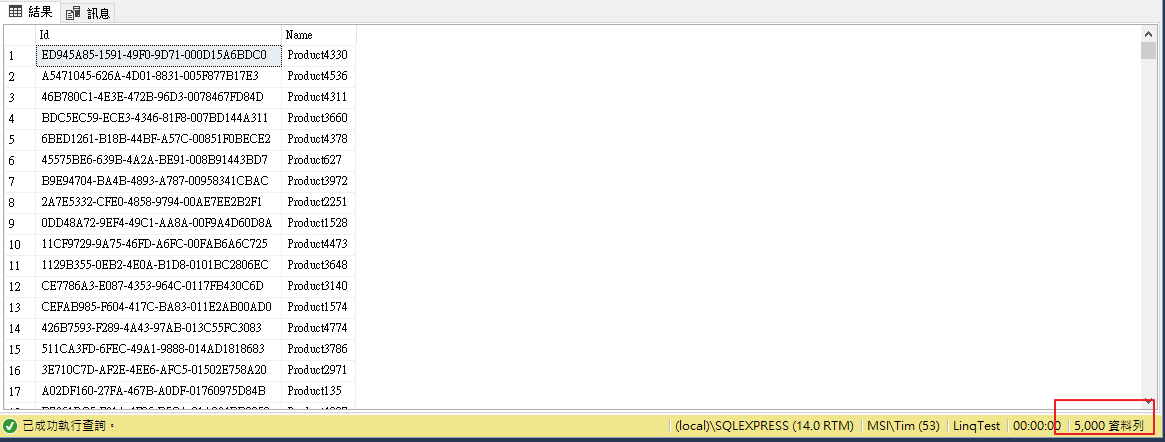
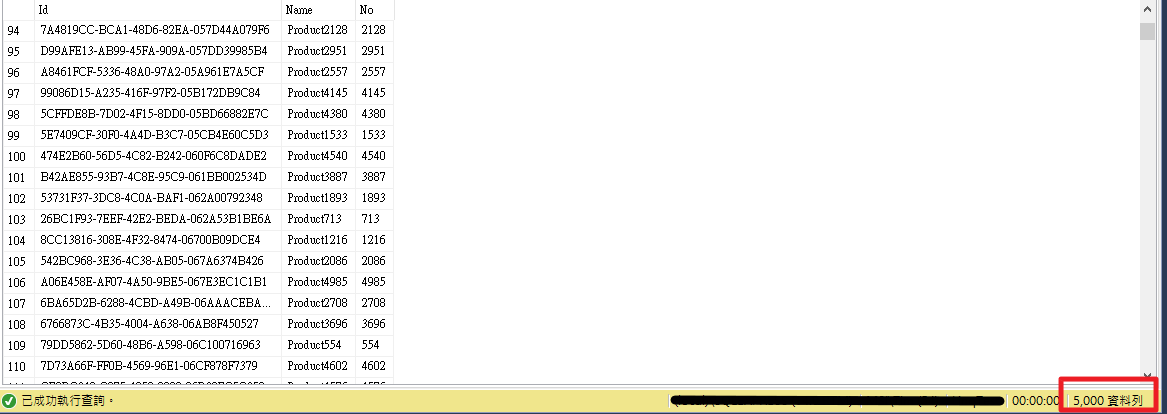
Site updated: 2020-12-23 21:10:07

Changed region(s): [[0.0, 0.0, 1.0, 1.0]]

diff --git a/2020/12/17/net-linq-any-count/index.html b/2020/12/17/net-linq-any-count/index.html
@@ -34,8 +34,9 @@
 <meta property="og:image" content="https://timchen0409.github.io/img/20201217/0.png">
 <meta property="og:image" content="https://timchen0409.github.io/img/20201217/1.png">
 <meta property="og:image" content="https://timchen0409.github.io/img/20201217/2.png">
+<meta property="og:image" content="https://timchen0409.github.io/img/20201217/3.png">
 <meta property="article:published_time" content="2020-12-17T13:30:40.000Z">
-<meta property="article:modified_time" content="2020-12-17T12:43:05.177Z">
+<meta property="article:modified_time" content="2020-12-23T13:09:45.159Z">
 <meta property="article:author" content="Tim Chen">
 <meta property="article:tag" content="Backend">
 <meta property="article:tag" content="C#">
@@ -221,7 +222,7 @@
       <div class="sidebar-panel-container">
         <!--noindex-->
         <section class="post-toc-wrap sidebar-panel">
-            <div class="post-toc animated"><ol class="nav"><li class="nav-item nav-level-2"><a class="nav-link" href="#%E5%89%8D%E8%A8%80"><span class="nav-number">1.</span> <span class="nav-text">前言</span></a></li><li class="nav-item nav-level-2"><a class="nav-link" href="#List%E6%AF%94%E8%BC%83"><span class="nav-number">2.</span> <span class="nav-text">List比較</span></a></li><li class="nav-item nav-level-2"><a class="nav-link" href="#Linq-to-Entities%E6%AF%94%E8%BC%83"><span class="nav-number">3.</span> <span class="nav-text">Linq-to-Entities比較</span></a></li><li class="nav-item nav-level-2"><a class="nav-link" href="#%E7%B5%90%E8%AA%9E"><span class="nav-number">4.</span> <span class="nav-text">結語</span></a><ol class="nav-child"><li class="nav-item nav-level-4"><a class="nav-link" href="#%E5%8F%83%E8%80%83%E8%B3%87%E6%96%99"><span class="nav-number">4.0.1.</span> <span class="nav-text">參考資料</span></a></li></ol></li></ol></li></ol></div>
+            <div class="post-toc animated"><ol class="nav"><li class="nav-item nav-level-2"><a class="nav-link" href="#%E5%89%8D%E8%A8%80"><span class="nav-number">1.</span> <span class="nav-text">前言</span></a></li><li class="nav-item nav-level-2"><a class="nav-link" href="#List%E6%AF%94%E8%BC%83"><span class="nav-number">2.</span> <span class="nav-text">List比較</span></a></li><li class="nav-item nav-level-2"><a class="nav-link" href="#Linq-to-Entities%E6%AF%94%E8%BC%83"><span class="nav-number">3.</span> <span class="nav-text">Linq-to-Entities比較</span></a></li><li class="nav-item nav-level-2"><a class="nav-link" href="#Linq-to-Entities%E6%AF%94%E8%BC%83-%E9%99%84%E5%8A%A0%E6%A2%9D%E4%BB%B6%E6%9F%A5%E8%A9%A2"><span class="nav-number">4.</span> <span class="nav-text">Linq-to-Entities比較(附加條件查詢)</span></a></li><li class="nav-item nav-level-2"><a class="nav-link" href="#%E7%B5%90%E8%AA%9E"><span class="nav-number">5.</span> <span class="nav-text">結語</span></a><ol class="nav-child"><li class="nav-item nav-level-4"><a class="nav-link" href="#%E5%8F%83%E8%80%83%E8%B3%87%E6%96%99"><span class="nav-number">5.0.1.</span> <span class="nav-text">參考資料</span></a></li></ol></li></ol></li></ol></div>
         </section>
         <!--/noindex-->
 
@@ -360,25 +361,36 @@
 <blockquote>
 <p>Using Any() instead of Count() != 0 usually conveys the intent of the code better, and in some circumstances, can perform better.</p>
 </blockquote>
-<p>因為本人過往在撰寫程式時，總是習慣使用Count()來判斷集合中是否有物件，所以就來測試看看</p>
+<p>因為本人過往在撰寫程式時，習慣使用Count()來判斷集合中是否有物件，所以就來測試看看</p>
 <a id="more"></a>
 
 <h2 id="List比較"><a href="#List比較" class="headerlink" title="List比較"></a>List比較</h2><p>我們先建立一個Product類別，然後使用For迴圈建立一個Product的List集合，之後使用StopWatch去測量已耗用時間<br>除了上述兩種情況，這邊額外新增測試 List 的 Count屬性<br>我們新增一個主控台應用程式，範例程式碼如下：</p>
-<figure class="highlight csharp"><table><tr><td class="gutter"><pre><span class="line">1</span><br><span class="line">2</span><br><span class="line">3</span><br><span class="line">4</span><br><span class="line">5</span><br><span class="line">6</span><br><span class="line">7</span><br><span class="line">8</span><br><span class="line">9</span><br><span class="line">10</span><br><span class="line">11</span><br><span class="line">12</span><br><span class="line">13</span><br><span class="line">14</span><br><span class="line">15</span><br><span class="line">16</span><br><span class="line">17</span><br><span class="line">18</span><br><span class="line">19</span><br><span class="line">20</span><br><span class="line">21</span><br><span class="line">22</span><br><span class="line">23</span><br><span class="line">24</span><br><span class="line">25</span><br><span class="line">26</span><br><span class="line">27</span><br><span class="line">28</span><br><span class="line">29</span><br><span class="line">30</span><br><span class="line">31</span><br><span class="line">32</span><br><span class="line">33</span><br><span class="line">34</span><br><span class="line">35</span><br><span class="line">36</span><br><span class="line">37</span><br><span class="line">38</span><br><span class="line">39</span><br><span class="line">40</span><br><span class="line">41</span><br><span class="line">42</span><br><span class="line">43</span><br><span class="line">44</span><br><span class="line">45</span><br><span class="line">46</span><br><span class="line">47</span><br><span class="line">48</span><br><span class="line">49</span><br><span class="line">50</span><br><span class="line">51</span><br><span class="line">52</span><br><span class="line">53</span><br><span class="line">54</span><br><span class="line">55</span><br><span class="line">56</span><br><span class="line">57</span><br><span class="line">58</span><br><span class="line">59</span><br><span class="line">60</span><br><span class="line">61</span><br><span class="line">62</span><br><span class="line">63</span><br><span class="line">64</span><br><span class="line">65</span><br><span class="line">66</span><br><span class="line">67</span><br><span class="line">68</span><br><span class="line">69</span><br><span class="line">70</span><br><span class="line">71</span><br></pre></td><td class="code"><pre><span class="line"><span class="keyword">using</span> System;</span><br><span class="line"><span class="keyword">using</span> System.Collections.Generic;</span><br><span class="line"><span class="keyword">using</span> System.Linq;</span><br><span class="line"><span class="keyword">using</span> System.Diagnostics;</span><br><span class="line"></span><br><span class="line"><span class="keyword">namespace</span> <span class="title">AnyCountTest</span></span><br><span class="line">&#123;</span><br><span class="line">    <span class="keyword">class</span> <span class="title">Program</span></span><br><span class="line">    &#123;</span><br><span class="line">        <span class="function"><span class="keyword">static</span> <span class="keyword">void</span> <span class="title">Main</span>(<span class="params"><span class="built_in">string</span>[] args</span>)</span></span><br><span class="line"><span class="function"></span>        &#123;</span><br><span class="line">            <span class="comment">//建立資料</span></span><br><span class="line">            List&lt;Product&gt; products = <span class="keyword">new</span> List&lt;Product&gt;();</span><br><span class="line">            <span class="keyword">for</span> (<span class="built_in">int</span> i = <span class="number">0</span>; i &lt; <span class="number">1000000</span>; i++)</span><br><span class="line">            &#123;</span><br><span class="line">                products.Add(<span class="keyword">new</span> Product &#123; Id = Guid.NewGuid(), Name = <span class="string">$&quot;Product<span class="subst">&#123;i&#125;</span>&quot;</span> &#125;);</span><br><span class="line">            &#125;</span><br><span class="line"></span><br><span class="line">            Stopwatch sw = <span class="keyword">new</span> Stopwatch();</span><br><span class="line">            <span class="built_in">int</span> num = <span class="number">0</span>;</span><br><span class="line"></span><br><span class="line">            Console.WriteLine(<span class="string">$&quot;------------------------------List集合開始測試&quot;</span>);</span><br><span class="line">           </span><br><span class="line"></span><br><span class="line"></span><br><span class="line">            sw.Start();</span><br><span class="line">            <span class="keyword">foreach</span> (<span class="keyword">var</span> item <span class="keyword">in</span> products)</span><br><span class="line">            &#123;</span><br><span class="line">                <span class="keyword">if</span> (products.Count != <span class="number">0</span>)</span><br><span class="line">                &#123;</span><br><span class="line">                    num++;</span><br><span class="line">                &#125;</span><br><span class="line">            &#125;</span><br><span class="line">            sw.Stop();</span><br><span class="line">            num = <span class="number">0</span>;</span><br><span class="line">            Console.WriteLine(<span class="string">$&quot;Count屬性：<span class="subst">&#123;sw.Elapsed&#125;</span>&quot;</span>);</span><br><span class="line"></span><br><span class="line">            sw.Restart();</span><br><span class="line">            <span class="keyword">foreach</span> (<span class="keyword">var</span> item <span class="keyword">in</span> products)</span><br><span class="line">            &#123;</span><br><span class="line">                <span class="keyword">if</span> (products.Count() != <span class="number">0</span>)</span><br><span class="line">                &#123;</span><br><span class="line">                    num++;</span><br><span class="line">                &#125;</span><br><span class="line">            &#125;</span><br><span class="line">            sw.Stop();</span><br><span class="line">            num = <span class="number">0</span>;</span><br><span class="line">            Console.WriteLine(<span class="string">$&quot;Count()  ：<span class="subst">&#123;sw.Elapsed&#125;</span>&quot;</span>);</span><br><span class="line"></span><br><span class="line">            sw.Restart();</span><br><span class="line">            <span class="keyword">foreach</span> (<span class="keyword">var</span> item <span class="keyword">in</span> products)</span><br><span class="line">            &#123;</span><br><span class="line">                <span class="keyword">if</span> (products.Any())</span><br><span class="line">                &#123;</span><br><span class="line">                    num++;</span><br><span class="line">                &#125;</span><br><span class="line">            &#125;</span><br><span class="line">            sw.Stop();</span><br><span class="line">            num = <span class="number">0</span>;</span><br><span class="line">            Console.WriteLine(<span class="string">$&quot;Any      ：<span class="subst">&#123;sw.Elapsed&#125;</span>&quot;</span>);</span><br><span class="line"></span><br><span class="line">            Console.ReadLine();</span><br><span class="line">        &#125;</span><br><span class="line">    &#125;</span><br><span class="line"></span><br><span class="line">    <span class="keyword">class</span> <span class="title">Product</span></span><br><span class="line">    &#123;</span><br><span class="line">        <span class="keyword">public</span> Guid Id &#123; <span class="keyword">get</span>; <span class="keyword">set</span>; &#125;</span><br><span class="line">        <span class="keyword">public</span> <span class="built_in">string</span> Name &#123; <span class="keyword">get</span>; <span class="keyword">set</span>; &#125;</span><br><span class="line">    &#125;</span><br><span class="line">&#125;</span><br></pre></td></tr></table></figure>
+<figure class="highlight csharp"><table><tr><td class="gutter"><pre><span class="line">1</span><br><span class="line">2</span><br><span class="line">3</span><br><span class="line">4</span><br><span class="line">5</span><br><span class="line">6</span><br><span class="line">7</span><br><span class="line">8</span><br><span class="line">9</span><br><span class="line">10</span><br><span class="line">11</span><br><span class="line">12</span><br><span class="line">13</span><br><span class="line">14</span><br><span class="line">15</span><br><span class="line">16</span><br><span class="line">17</span><br><span class="line">18</span><br><span class="line">19</span><br><span class="line">20</span><br><span class="line">21</span><br><span class="line">22</span><br><span class="line">23</span><br><span class="line">24</span><br><span class="line">25</span><br><span class="line">26</span><br><span class="line">27</span><br><span class="line">28</span><br><span class="line">29</span><br><span class="line">30</span><br><span class="line">31</span><br><span class="line">32</span><br><span class="line">33</span><br><span class="line">34</span><br><span class="line">35</span><br><span class="line">36</span><br><span class="line">37</span><br><span class="line">38</span><br><span class="line">39</span><br><span class="line">40</span><br><span class="line">41</span><br><span class="line">42</span><br><span class="line">43</span><br><span class="line">44</span><br><span class="line">45</span><br><span class="line">46</span><br><span class="line">47</span><br><span class="line">48</span><br><span class="line">49</span><br><span class="line">50</span><br><span class="line">51</span><br><span class="line">52</span><br><span class="line">53</span><br><span class="line">54</span><br><span class="line">55</span><br><span class="line">56</span><br><span class="line">57</span><br><span class="line">58</span><br><span class="line">59</span><br><span class="line">60</span><br><span class="line">61</span><br><span class="line">62</span><br><span class="line">63</span><br><span class="line">64</span><br><span class="line">65</span><br><span class="line">66</span><br><span class="line">67</span><br><span class="line">68</span><br><span class="line">69</span><br><span class="line">70</span><br><span class="line">71</span><br><span class="line">72</span><br><span class="line">73</span><br><span class="line">74</span><br><span class="line">75</span><br></pre></td><td class="code"><pre><span class="line"><span class="keyword">using</span> System;</span><br><span class="line"><span class="keyword">using</span> System.Collections.Generic;</span><br><span class="line"><span class="keyword">using</span> System.Linq;</span><br><span class="line"><span class="keyword">using</span> System.Diagnostics;</span><br><span class="line"></span><br><span class="line"><span class="keyword">namespace</span> <span class="title">AnyCountTest</span></span><br><span class="line">&#123;</span><br><span class="line">    <span class="keyword">class</span> <span class="title">Program</span></span><br><span class="line">    &#123;</span><br><span class="line">        <span class="function"><span class="keyword">static</span> <span class="keyword">void</span> <span class="title">Main</span>(<span class="params"><span class="built_in">string</span>[] args</span>)</span></span><br><span class="line"><span class="function"></span>        &#123;</span><br><span class="line">            <span class="comment">//建立資料</span></span><br><span class="line">            List&lt;Product&gt; products = <span class="keyword">new</span> List&lt;Product&gt;();</span><br><span class="line">            <span class="keyword">for</span> (<span class="built_in">int</span> i = <span class="number">0</span>; i &lt; <span class="number">1000000</span>; i++)</span><br><span class="line">            &#123;</span><br><span class="line">                products.Add(<span class="keyword">new</span> Product &#123; Id = Guid.NewGuid(), Name = <span class="string">$&quot;Product<span class="subst">&#123;i&#125;</span>&quot;</span>, No = i &#125;);</span><br><span class="line">            &#125;</span><br><span class="line"></span><br><span class="line">            Stopwatch sw = <span class="keyword">new</span> Stopwatch();</span><br><span class="line">            <span class="built_in">int</span> num = <span class="number">0</span>;</span><br><span class="line"></span><br><span class="line">            Console.WriteLine(<span class="string">$&quot;------------------------------List集合開始測試&quot;</span>);</span><br><span class="line"></span><br><span class="line"></span><br><span class="line">            <span class="keyword">for</span> (<span class="built_in">int</span> i = <span class="number">0</span>; i &lt; <span class="number">5</span>; i++)</span><br><span class="line">            &#123;</span><br><span class="line">                sw.Restart();</span><br><span class="line">                <span class="keyword">foreach</span> (<span class="keyword">var</span> item <span class="keyword">in</span> products)</span><br><span class="line">                &#123;</span><br><span class="line">                    <span class="keyword">if</span> (products.Count != <span class="number">0</span>)</span><br><span class="line">                    &#123;</span><br><span class="line">                        num++;</span><br><span class="line">                    &#125;</span><br><span class="line">                &#125;</span><br><span class="line">                sw.Stop();</span><br><span class="line">                num = <span class="number">0</span>;</span><br><span class="line">                Console.WriteLine(<span class="string">$&quot;Count屬性：<span class="subst">&#123;sw.Elapsed&#125;</span>&quot;</span>);</span><br><span class="line"></span><br><span class="line">                sw.Restart();</span><br><span class="line">                <span class="keyword">foreach</span> (<span class="keyword">var</span> item <span class="keyword">in</span> products)</span><br><span class="line">                &#123;</span><br><span class="line">                    <span class="keyword">if</span> (products.Count() != <span class="number">0</span>)</span><br><span class="line">                    &#123;</span><br><span class="line">                        num++;</span><br><span class="line">                    &#125;</span><br><span class="line">                &#125;</span><br><span class="line">                sw.Stop();</span><br><span class="line">                num = <span class="number">0</span>;</span><br><span class="line">                Console.WriteLine(<span class="string">$&quot;Count()  ：<span class="subst">&#123;sw.Elapsed&#125;</span>&quot;</span>);</span><br><span class="line"></span><br><span class="line">                sw.Restart();</span><br><span class="line">                <span class="keyword">foreach</span> (<span class="keyword">var</span> item <span class="keyword">in</span> products)</span><br><span class="line">                &#123;</span><br><span class="line">                    <span class="keyword">if</span> (products.Any())</span><br><span class="line">                    &#123;</span><br><span class="line">                        num++;</span><br><span class="line">                    &#125;</span><br><span class="line">                &#125;</span><br><span class="line">                sw.Stop();</span><br><span class="line">                num = <span class="number">0</span>;</span><br><span class="line">                Console.WriteLine(<span class="string">$&quot;Any      ：<span class="subst">&#123;sw.Elapsed&#125;</span>&quot;</span>);</span><br><span class="line">                Console.WriteLine(<span class="string">$&quot;第<span class="subst">&#123;i + <span class="number">1</span>&#125;</span>次測試完畢--------------------------&quot;</span>);</span><br><span class="line">            &#125;</span><br><span class="line"></span><br><span class="line">            Console.ReadLine();</span><br><span class="line">        &#125;</span><br><span class="line">    &#125;</span><br><span class="line"></span><br><span class="line">    <span class="keyword">class</span> <span class="title">Product</span></span><br><span class="line">    &#123;</span><br><span class="line">        <span class="keyword">public</span> Guid Id &#123; <span class="keyword">get</span>; <span class="keyword">set</span>; &#125;</span><br><span class="line">        <span class="keyword">public</span> <span class="built_in">string</span> Name &#123; <span class="keyword">get</span>; <span class="keyword">set</span>; &#125;</span><br><span class="line">        <span class="keyword">public</span> <span class="built_in">int</span> No &#123; <span class="keyword">get</span>; <span class="keyword">set</span>; &#125;</span><br><span class="line">    &#125;</span><br><span class="line">&#125;</span><br></pre></td></tr></table></figure>
 
 <p>讓我們來看看輸出結果：<br><img src="/img/20201217/0.png"></p>
 <blockquote>
 <p>Count&gt;Count()&gt;Any()</p>
 </blockquote>
-<p>從上述的結果可以看到如果有 <code>Count</code> 屬性時，效率最佳所以一定優先使用，<code>Count()</code>也比<code>Any()</code>好，但這邊100萬筆資料來看，三者效能差異不會差得太過誇張，再來我們看一下Linq-to-Entities</p>
+<p>從上述的結果可以看到如果有 <code>Count</code> 屬性時，效率最佳所以一定優先使用，<code>Count()</code>比<code>Any()</code>好，因為如果來源的執行個體型別有實作ICollection<code>&lt;T&gt;</code>，則會直接取用Count屬性，但這邊100萬筆資料來看，三者效能差異不會差得太過誇張，再來我們看一下Linq-to-Entities</p>
 <h2 id="Linq-to-Entities比較"><a href="#Linq-to-Entities比較" class="headerlink" title="Linq-to-Entities比較"></a>Linq-to-Entities比較</h2><p>首先在專案的 NuGet 安裝 EntityFramework 套件，之後我們先在DB準備好5000筆的商品資料<br><img src="/img/20201217/1.png"><br>過程不是這篇重點所以略過，這邊自己可以選擇哪種做法比較方便，我是採用DB First方式，再寫迴圈把資料灌入資料表<br>準備好資料後開始測試，程式碼範例如下：</p>
-<figure class="highlight csharp"><table><tr><td class="gutter"><pre><span class="line">1</span><br><span class="line">2</span><br><span class="line">3</span><br><span class="line">4</span><br><span class="line">5</span><br><span class="line">6</span><br><span class="line">7</span><br><span class="line">8</span><br><span class="line">9</span><br><span class="line">10</span><br><span class="line">11</span><br><span class="line">12</span><br><span class="line">13</span><br><span class="line">14</span><br><span class="line">15</span><br><span class="line">16</span><br><span class="line">17</span><br><span class="line">18</span><br><span class="line">19</span><br><span class="line">20</span><br><span class="line">21</span><br><span class="line">22</span><br><span class="line">23</span><br><span class="line">24</span><br><span class="line">25</span><br><span class="line">26</span><br><span class="line">27</span><br><span class="line">28</span><br><span class="line">29</span><br><span class="line">30</span><br><span class="line">31</span><br><span class="line">32</span><br><span class="line">33</span><br><span class="line">34</span><br><span class="line">35</span><br><span class="line">36</span><br><span class="line">37</span><br><span class="line">38</span><br><span class="line">39</span><br><span class="line">40</span><br><span class="line">41</span><br><span class="line">42</span><br><span class="line">43</span><br><span class="line">44</span><br><span class="line">45</span><br><span class="line">46</span><br><span class="line">47</span><br><span class="line">48</span><br><span class="line">49</span><br><span class="line">50</span><br><span class="line">51</span><br><span class="line">52</span><br><span class="line">53</span><br><span class="line">54</span><br></pre></td><td class="code"><pre><span class="line"><span class="keyword">using</span> System;</span><br><span class="line"><span class="keyword">using</span> System.Collections.Generic;</span><br><span class="line"><span class="keyword">using</span> System.Linq;</span><br><span class="line"><span class="keyword">using</span> System.Diagnostics;</span><br><span class="line"></span><br><span class="line"><span class="keyword">namespace</span> <span class="title">AnyCountTest</span></span><br><span class="line">&#123;</span><br><span class="line">    <span class="keyword">class</span> <span class="title">Program</span></span><br><span class="line">    &#123;</span><br><span class="line"></span><br><span class="line">        <span class="function"><span class="keyword">static</span> <span class="keyword">void</span> <span class="title">Main</span>(<span class="params"><span class="built_in">string</span>[] args</span>)</span></span><br><span class="line"><span class="function"></span>        &#123;</span><br><span class="line">            <span class="keyword">using</span> (LinqTestEntities db = <span class="keyword">new</span> LinqTestEntities())</span><br><span class="line">            &#123;</span><br><span class="line">                <span class="comment">//取得資料</span></span><br><span class="line">                <span class="keyword">var</span> products = <span class="keyword">from</span> p <span class="keyword">in</span> db.Product</span><br><span class="line">                               <span class="keyword">select</span> p;</span><br><span class="line"></span><br><span class="line">                Stopwatch sw = <span class="keyword">new</span> Stopwatch();</span><br><span class="line">                <span class="built_in">int</span> num = <span class="number">0</span>;</span><br><span class="line">                Console.WriteLine(<span class="string">$&quot;------------------------------Entity集合開始測試&quot;</span>);</span><br><span class="line">                <span class="keyword">var</span> pList = products.ToList();</span><br><span class="line"></span><br><span class="line">                <span class="keyword">for</span> (<span class="built_in">int</span> i = <span class="number">0</span>; i &lt; <span class="number">5</span>; i++)</span><br><span class="line">                &#123;</span><br><span class="line">                    sw.Restart();</span><br><span class="line">                    <span class="keyword">foreach</span> (<span class="keyword">var</span> item <span class="keyword">in</span> products)</span><br><span class="line">                    &#123;</span><br><span class="line">                        <span class="keyword">if</span> (products.Count() != <span class="number">0</span>)</span><br><span class="line">                        &#123;</span><br><span class="line">                            num++;</span><br><span class="line">                        &#125;</span><br><span class="line">                    &#125;</span><br><span class="line">                    sw.Stop();</span><br><span class="line">                    num = <span class="number">0</span>;</span><br><span class="line">                    Console.WriteLine(<span class="string">$&quot;Count()  ：<span class="subst">&#123;sw.Elapsed&#125;</span>&quot;</span>);</span><br><span class="line"></span><br><span class="line">                    sw.Restart();</span><br><span class="line">                    <span class="keyword">foreach</span> (<span class="keyword">var</span> item <span class="keyword">in</span> products)</span><br><span class="line">                    &#123;</span><br><span class="line">                        <span class="keyword">if</span> (products.Any())</span><br><span class="line">                        &#123;</span><br><span class="line">                            num++;</span><br><span class="line">                        &#125;</span><br><span class="line">                    &#125;</span><br><span class="line">                    sw.Stop();</span><br><span class="line">                    num = <span class="number">0</span>;</span><br><span class="line">                    Console.WriteLine(<span class="string">$&quot;Any      ：<span class="subst">&#123;sw.Elapsed&#125;</span>&quot;</span>);</span><br><span class="line">                &#125;</span><br><span class="line">                Console.ReadLine();</span><br><span class="line">            &#125;</span><br><span class="line">        &#125;</span><br><span class="line">    &#125;</span><br><span class="line">&#125;</span><br></pre></td></tr></table></figure>
+<figure class="highlight csharp"><table><tr><td class="gutter"><pre><span class="line">1</span><br><span class="line">2</span><br><span class="line">3</span><br><span class="line">4</span><br><span class="line">5</span><br><span class="line">6</span><br><span class="line">7</span><br><span class="line">8</span><br><span class="line">9</span><br><span class="line">10</span><br><span class="line">11</span><br><span class="line">12</span><br><span class="line">13</span><br><span class="line">14</span><br><span class="line">15</span><br><span class="line">16</span><br><span class="line">17</span><br><span class="line">18</span><br><span class="line">19</span><br><span class="line">20</span><br><span class="line">21</span><br><span class="line">22</span><br><span class="line">23</span><br><span class="line">24</span><br><span class="line">25</span><br><span class="line">26</span><br><span class="line">27</span><br><span class="line">28</span><br><span class="line">29</span><br><span class="line">30</span><br><span class="line">31</span><br><span class="line">32</span><br><span class="line">33</span><br><span class="line">34</span><br><span class="line">35</span><br><span class="line">36</span><br><span class="line">37</span><br><span class="line">38</span><br><span class="line">39</span><br><span class="line">40</span><br><span class="line">41</span><br><span class="line">42</span><br><span class="line">43</span><br><span class="line">44</span><br><span class="line">45</span><br><span class="line">46</span><br><span class="line">47</span><br><span class="line">48</span><br><span class="line">49</span><br><span class="line">50</span><br><span class="line">51</span><br><span class="line">52</span><br><span class="line">53</span><br><span class="line">54</span><br><span class="line">55</span><br><span class="line">56</span><br><span class="line">57</span><br><span class="line">58</span><br></pre></td><td class="code"><pre><span class="line"><span class="keyword">using</span> System;</span><br><span class="line"><span class="keyword">using</span> System.Collections.Generic;</span><br><span class="line"><span class="keyword">using</span> System.Linq;</span><br><span class="line"><span class="keyword">using</span> System.Diagnostics;</span><br><span class="line"></span><br><span class="line"><span class="keyword">namespace</span> <span class="title">AnyCountTest</span></span><br><span class="line">&#123;</span><br><span class="line">    <span class="keyword">class</span> <span class="title">Program</span></span><br><span class="line">    &#123;</span><br><span class="line"></span><br><span class="line">        <span class="function"><span class="keyword">static</span> <span class="keyword">void</span> <span class="title">Main</span>(<span class="params"><span class="built_in">string</span>[] args</span>)</span></span><br><span class="line"><span class="function"></span>        &#123;</span><br><span class="line">            <span class="keyword">using</span> (LinqTestEntities1 db = <span class="keyword">new</span> LinqTestEntities1())</span><br><span class="line">            &#123;</span><br><span class="line"></span><br><span class="line">                <span class="comment">//取得資料</span></span><br><span class="line">                <span class="keyword">var</span> products = <span class="keyword">from</span> i <span class="keyword">in</span> db.Product</span><br><span class="line">                               <span class="keyword">select</span> i;</span><br><span class="line"></span><br><span class="line"></span><br><span class="line">                Stopwatch sw = <span class="keyword">new</span> Stopwatch();</span><br><span class="line">                <span class="built_in">int</span> num = <span class="number">0</span>;</span><br><span class="line">                Console.WriteLine(<span class="string">$&quot;------------------------------Entity集合開始測試&quot;</span>);</span><br><span class="line"></span><br><span class="line">                <span class="keyword">for</span> (<span class="built_in">int</span> i = <span class="number">0</span>; i &lt; <span class="number">5</span>; i++)</span><br><span class="line">                &#123;</span><br><span class="line"></span><br><span class="line">                    sw.Restart();</span><br><span class="line">                    <span class="keyword">foreach</span> (<span class="keyword">var</span> item <span class="keyword">in</span> products)</span><br><span class="line">                    &#123;</span><br><span class="line">                        <span class="keyword">if</span> (products.Count() != <span class="number">0</span>)</span><br><span class="line">                        &#123;</span><br><span class="line">                            num++;</span><br><span class="line">                        &#125;</span><br><span class="line">                    &#125;</span><br><span class="line">                    sw.Stop();</span><br><span class="line">                    num = <span class="number">0</span>;</span><br><span class="line">                    Console.WriteLine(<span class="string">$&quot;Count()  ：<span class="subst">&#123;sw.Elapsed&#125;</span>&quot;</span>);</span><br><span class="line"></span><br><span class="line">                    sw.Restart();</span><br><span class="line">                    <span class="keyword">foreach</span> (<span class="keyword">var</span> item <span class="keyword">in</span> products)</span><br><span class="line">                    &#123;</span><br><span class="line">                        <span class="keyword">if</span> (products.Any())</span><br><span class="line">                        &#123;</span><br><span class="line">                            num++;</span><br><span class="line">                        &#125;</span><br><span class="line">                    &#125;</span><br><span class="line">                    sw.Stop();</span><br><span class="line">                    num = <span class="number">0</span>;</span><br><span class="line">                    Console.WriteLine(<span class="string">$&quot;Any      ：<span class="subst">&#123;sw.Elapsed&#125;</span>&quot;</span>);</span><br><span class="line">                    Console.WriteLine(<span class="string">$&quot;第<span class="subst">&#123;i + <span class="number">1</span>&#125;</span>次測試完畢--------------------------&quot;</span>);</span><br><span class="line"></span><br><span class="line">                &#125;</span><br><span class="line">                Console.ReadLine();</span><br><span class="line">            &#125;</span><br><span class="line">        &#125;</span><br><span class="line">    &#125;</span><br><span class="line">&#125;</span><br></pre></td></tr></table></figure>
 <p>結果：<br><img src="/img/20201217/2.png"></p>
 <blockquote>
 <p>Any()&gt;Count()</p>
 </blockquote>
-<p>這邊可以看到，資料僅5000筆，效率上<code>Count()</code>就比<code>Any()</code>慢上許多，如果資料一變多那差異就更大了…，所以這邊就務必去使用Any()去作判斷</p>
-<h2 id="結語"><a href="#結語" class="headerlink" title="結語"></a>結語</h2><p>這邊提醒一下條件使用 Count() != 0 或 Count() &gt; 0皆不影響上述的測試結果，至於該兩者效能差異的詳細原因可以拜讀下面幾篇討論與文章，尤其小朱大的文章說明得很仔細。</p>
+<p>這邊看到結果，因為第一次執行的時候會經過JIT編譯，這會造成第一次呼叫時比較花時間，所以第一次測試結果可以跳過不參考。總共資料有5000筆，可以看出效率上<code>Count()</code>就比<code>Any()</code>慢上許多，所以這邊就務必去使用Any()去作判斷</p>
+<h2 id="Linq-to-Entities比較-附加條件查詢"><a href="#Linq-to-Entities比較-附加條件查詢" class="headerlink" title="Linq-to-Entities比較(附加條件查詢)"></a>Linq-to-Entities比較(附加條件查詢)</h2><p><code>Count()</code> 和 <code>Any()</code> 各自都含有另一個多載方法</p>
+<figure class="highlight csharp"><table><tr><td class="gutter"><pre><span class="line">1</span><br><span class="line">2</span><br><span class="line">3</span><br><span class="line">4</span><br><span class="line">5</span><br></pre></td><td class="code"><pre><span class="line"><span class="comment">//傳回數字，代表指定之序列中符合條件的項目數目</span></span><br><span class="line"><span class="function"><span class="keyword">public</span> <span class="keyword">static</span> <span class="built_in">int</span> <span class="title">Count</span>&lt;<span class="title">TSource</span>&gt; (<span class="params"><span class="keyword">this</span> System.Collections.Generic.IEnumerable&lt;TSource&gt; source, Func&lt;TSource,<span class="built_in">bool</span>&gt; predicate</span>)</span>;</span><br><span class="line"></span><br><span class="line"><span class="comment">//判斷序列的任何項目是否符合條件</span></span><br><span class="line"><span class="function"><span class="keyword">public</span> <span class="keyword">static</span> <span class="built_in">bool</span> <span class="title">Any</span>&lt;<span class="title">TSource</span>&gt; (<span class="params"><span class="keyword">this</span> System.Collections.Generic.IEnumerable&lt;TSource&gt; source, Func&lt;TSource,<span class="built_in">bool</span>&gt; predicate</span>)</span>;</span><br></pre></td></tr></table></figure>
+<p>所以讓我們來改寫一下上面的程式碼，為兩個方法新增條件：</p>
+<figure class="highlight csharp"><table><tr><td class="gutter"><pre><span class="line">1</span><br><span class="line">2</span><br><span class="line">3</span><br><span class="line">4</span><br><span class="line">5</span><br><span class="line">6</span><br><span class="line">7</span><br><span class="line">8</span><br><span class="line">9</span><br><span class="line">10</span><br><span class="line">11</span><br><span class="line">12</span><br><span class="line">13</span><br><span class="line">14</span><br><span class="line">15</span><br><span class="line">16</span><br><span class="line">17</span><br><span class="line">18</span><br><span class="line">19</span><br><span class="line">20</span><br><span class="line">21</span><br><span class="line">22</span><br><span class="line">23</span><br><span class="line">24</span><br><span class="line">25</span><br><span class="line">26</span><br><span class="line">27</span><br><span class="line">28</span><br><span class="line">29</span><br><span class="line">30</span><br><span class="line">31</span><br><span class="line">32</span><br><span class="line">33</span><br><span class="line">34</span><br><span class="line">35</span><br><span class="line">36</span><br><span class="line">37</span><br><span class="line">38</span><br><span class="line">39</span><br><span class="line">40</span><br><span class="line">41</span><br><span class="line">42</span><br><span class="line">43</span><br><span class="line">44</span><br><span class="line">45</span><br><span class="line">46</span><br><span class="line">47</span><br><span class="line">48</span><br><span class="line">49</span><br><span class="line">50</span><br><span class="line">51</span><br><span class="line">52</span><br><span class="line">53</span><br><span class="line">54</span><br><span class="line">55</span><br><span class="line">56</span><br><span class="line">57</span><br><span class="line">58</span><br></pre></td><td class="code"><pre><span class="line"><span class="keyword">using</span> System;</span><br><span class="line"><span class="keyword">using</span> System.Collections.Generic;</span><br><span class="line"><span class="keyword">using</span> System.Linq;</span><br><span class="line"><span class="keyword">using</span> System.Diagnostics;</span><br><span class="line"></span><br><span class="line"><span class="keyword">namespace</span> <span class="title">AnyCountTest</span></span><br><span class="line">&#123;</span><br><span class="line">    <span class="keyword">class</span> <span class="title">Program</span></span><br><span class="line">    &#123;</span><br><span class="line"></span><br><span class="line">        <span class="function"><span class="keyword">static</span> <span class="keyword">void</span> <span class="title">Main</span>(<span class="params"><span class="built_in">string</span>[] args</span>)</span></span><br><span class="line"><span class="function"></span>        &#123;</span><br><span class="line">            <span class="keyword">using</span> (LinqTestEntities1 db = <span class="keyword">new</span> LinqTestEntities1())</span><br><span class="line">            &#123;</span><br><span class="line"></span><br><span class="line">                <span class="comment">//取得資料</span></span><br><span class="line">                <span class="keyword">var</span> products = <span class="keyword">from</span> i <span class="keyword">in</span> db.Product</span><br><span class="line">                               <span class="keyword">select</span> i;</span><br><span class="line"></span><br><span class="line"></span><br><span class="line">                Stopwatch sw = <span class="keyword">new</span> Stopwatch();</span><br><span class="line">                <span class="built_in">int</span> num = <span class="number">0</span>;</span><br><span class="line">                Console.WriteLine(<span class="string">$&quot;------------------------------Entity集合開始測試&quot;</span>);</span><br><span class="line"></span><br><span class="line">                <span class="keyword">for</span> (<span class="built_in">int</span> i = <span class="number">0</span>; i &lt; <span class="number">5</span>; i++)</span><br><span class="line">                &#123;</span><br><span class="line"></span><br><span class="line">                    sw.Restart();</span><br><span class="line">                    <span class="keyword">foreach</span> (<span class="keyword">var</span> item <span class="keyword">in</span> products)</span><br><span class="line">                    &#123;</span><br><span class="line">                        <span class="keyword">if</span> (products.Count(x =&gt; x.No &gt; <span class="number">1000</span>) != <span class="number">0</span>)</span><br><span class="line">                        &#123;</span><br><span class="line">                            num++;</span><br><span class="line">                        &#125;</span><br><span class="line">                    &#125;</span><br><span class="line">                    sw.Stop();</span><br><span class="line">                    num = <span class="number">0</span>;</span><br><span class="line">                    Console.WriteLine(<span class="string">$&quot;Count()  ：<span class="subst">&#123;sw.Elapsed&#125;</span>&quot;</span>);</span><br><span class="line"></span><br><span class="line">                    sw.Restart();</span><br><span class="line">                    <span class="keyword">foreach</span> (<span class="keyword">var</span> item <span class="keyword">in</span> products)</span><br><span class="line">                    &#123;</span><br><span class="line">                        <span class="keyword">if</span> (products.Any(x =&gt; x.No &gt; <span class="number">1000</span>))</span><br><span class="line">                        &#123;</span><br><span class="line">                            num++;</span><br><span class="line">                        &#125;</span><br><span class="line">                    &#125;</span><br><span class="line">                    sw.Stop();</span><br><span class="line">                    num = <span class="number">0</span>;</span><br><span class="line">                    Console.WriteLine(<span class="string">$&quot;Any      ：<span class="subst">&#123;sw.Elapsed&#125;</span>&quot;</span>);</span><br><span class="line">                    Console.WriteLine(<span class="string">$&quot;第<span class="subst">&#123;i + <span class="number">1</span>&#125;</span>次測試完畢--------------------------&quot;</span>);</span><br><span class="line"></span><br><span class="line">                &#125;</span><br><span class="line">                Console.ReadLine();</span><br><span class="line">            &#125;</span><br><span class="line">        &#125;</span><br><span class="line">    &#125;</span><br><span class="line">&#125;</span><br></pre></td></tr></table></figure>
+<p>結果：<br><img src="/img/20201217/3.png"></p>
+<blockquote>
+<p>Any()&gt;Count()</p>
+</blockquote>
+<p>這邊可以看到，比起剛剛無條件的情況，加入條件時效能差異更大了，如果資料量變大，後果可不堪設想…所以這邊也務必使用<code>Any()</code></p>
+<p>另外當 <code>Count()</code> 遇到使用 yield return 時，也會出現效能問題，所以也應該盡量避免使用<br>詳細原因可以參考下面小朱大的文章</p>
+<p><em>這邊提醒一下條件使用 Count() != 0 或 Count() &gt; 0皆不影響上述的測試結果</em></p>
+<h2 id="結語"><a href="#結語" class="headerlink" title="結語"></a>結語</h2><p>如果能用 Count 屬性時，一定要用，若是 Linq-to-Entities，沒有 Count 屬性可用，請務必優先使用 Any() 方法，在參考資料有更多詳細的解說，可以多參考，這篇文章用簡單的範例去做效能測試驗證，希望能用淺顯易懂的方式讓大家了解囉</p>
 <h4 id="參考資料"><a href="#參考資料" class="headerlink" title="參考資料"></a>參考資料</h4><p><a target="_blank" rel="noopener" href="https://dotblogs.com.tw/regionbbs/2013/04/10/when_to_use_any_or_count_in_linq">小朱® 的技術隨手寫 - Any() vs. Count() 何時可用? 何時不可用?</a></p>
 <p><a target="_blank" rel="noopener" href="https://stackoverflow.com/questions/305092/which-method-performs-better-any-vs-count-0">Which method performs better: .Any() vs .Count() &gt; 0?</a></p>
 <p><a target="_blank" rel="noopener" href="https://stackoverflow.com/questions/2856965/query-result-what-should-i-use-count-or-any">query result what should i use Count() or Any()</a></p>

diff --git a/index.html b/index.html
@@ -348,7 +348,7 @@
 <blockquote>
 <p>Using Any() instead of Count() != 0 usually conveys the intent of the code better, and in some circumstances, can perform better.</p>
 </blockquote>
-<p>因為本人過往在撰寫程式時，總是習慣使用Count()來判斷集合中是否有物件，所以就來測試看看</p>
+<p>因為本人過往在撰寫程式時，習慣使用Count()來判斷集合中是否有物件，所以就來測試看看</p>
           <!--noindex-->
             <div class="post-button">
               <a class="btn" href="/2020/12/17/net-linq-any-count/#more" rel="contents">
